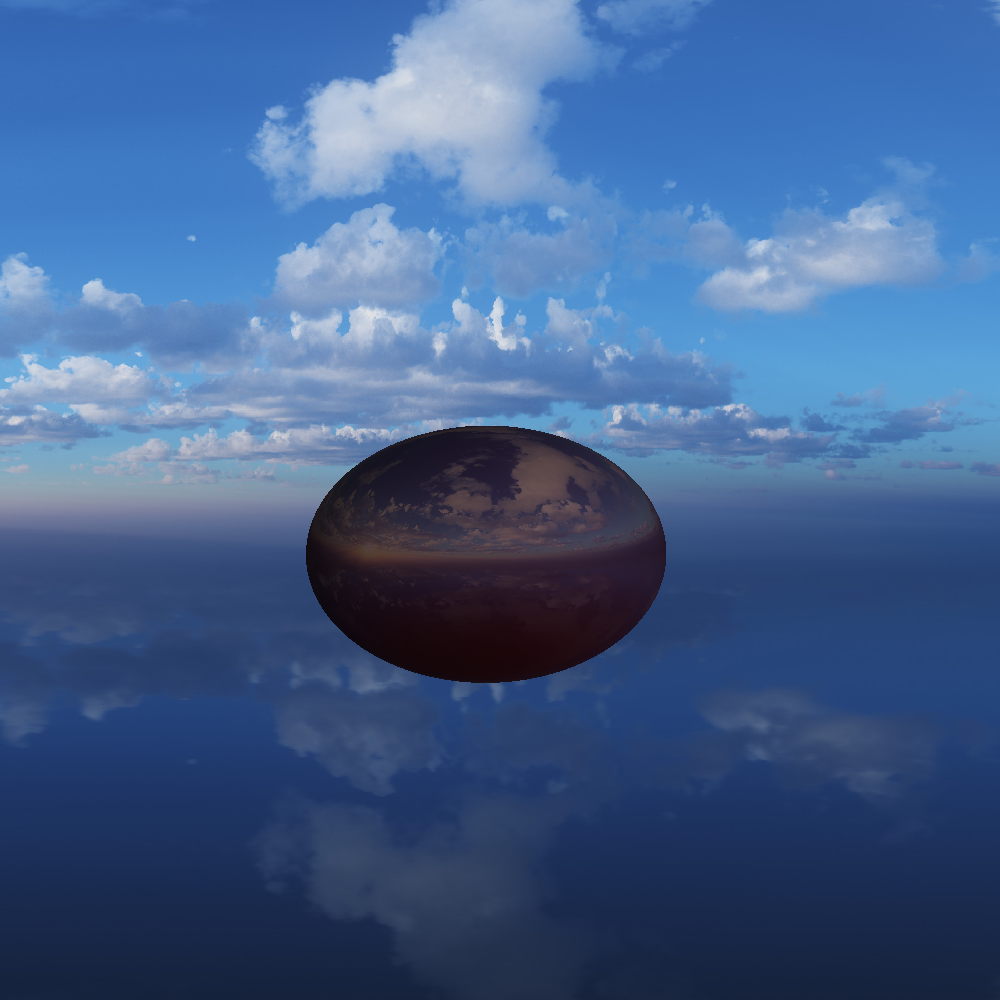
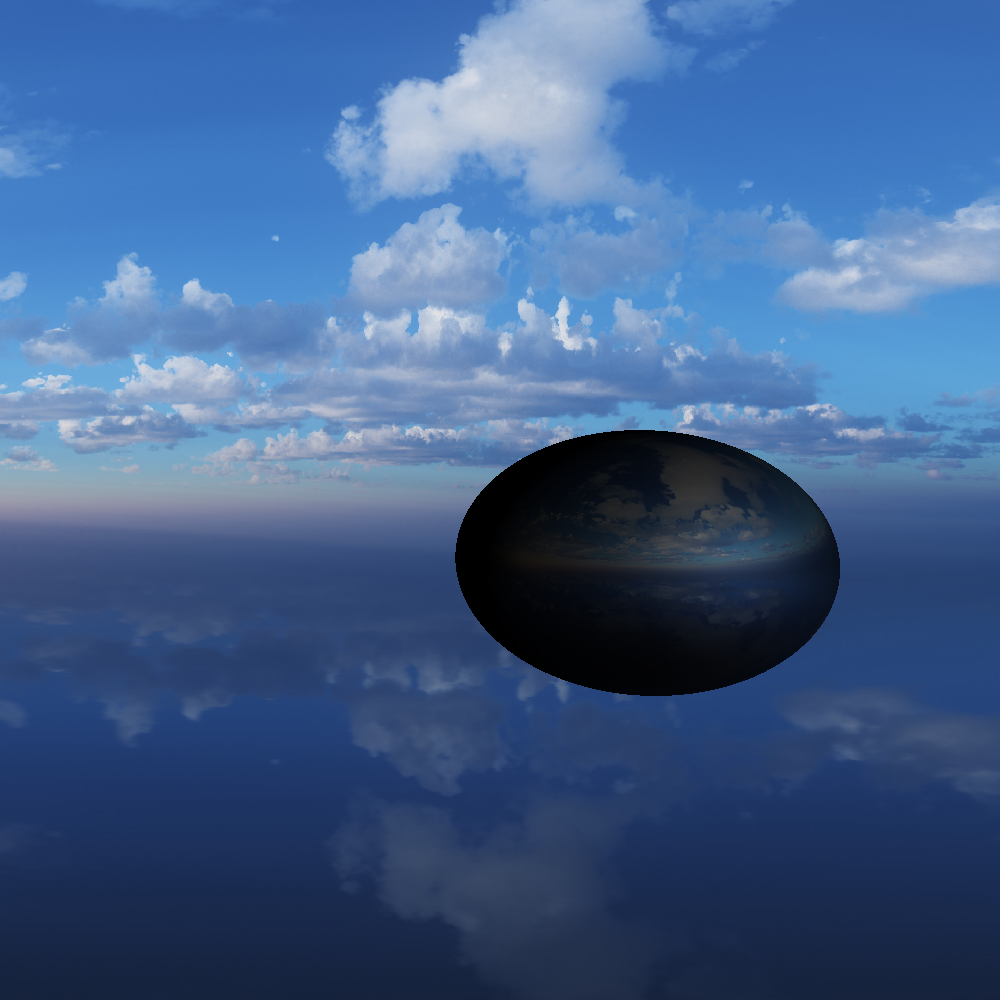
Result is cool but not working haha

diff --git a/dev/src/physic/shadow.c b/dev/src/physic/shadow.c
@@ -39,7 +39,7 @@ void shadow_render(raycast_param* rcp)
     
     //setup
     ray* shadow_ray = calloc(sizeof(struct ray),1);
-    float c[3] = {1,1,1};
+    float c[3] = {0,0,0};
     copy(ry->last_hit->normal, shadow_ray->pos);
     scale(shadow_ray->pos, .001, shadow_ray->pos);
     add(shadow_ray->pos, ry->last_hit->pos, shadow_ray->pos);
@@ -60,21 +60,20 @@ void shadow_render(raycast_param* rcp)
             times_illum(&mat->diffuse, lgt_amt);
             times_illum(&lgt->illum, lgt_amt);
             add(lgt_amt, c, c);
-
+            
             //specular
-            float ideal[3];
-            reflect(shadow_ray->dir, ry->last_hit->normal, ideal);
-            normalize(ideal, ideal);
-            dp = max(0,dotProduct(ideal, ry->dir));
+            float half_vect[3];
+            scale(ry->dir, -1, half_vect);
+            add(shadow_ray->dir, half_vect, half_vect);
+            normalize(half_vect, half_vect);
+            
+            dp = max(0,dotProduct(half_vect, ry->last_hit->normal));
             dp = pow(dp, mat->shininess);
             float lgt_spec[3] = {dp, dp, dp};
             times_illum(&mat->specular, lgt_spec);
             times_illum(&lgt->illum, lgt_spec);
             add(lgt_spec, c, c);
-        }else{
-            //shadow
-            scale(c, 0, c);
-            break;
+            
         }
     }
     float ambient[3];
@@ -83,6 +82,9 @@ void shadow_render(raycast_param* rcp)
     float factor[3] = {1,1,1};
     minus(factor, ambient, factor);
     scale_vector(c, factor, c);
+    for(int i = 0; i < 3; i++){
+        c[i] = min(1, c[i]);
+    }
     scale_vector(c, ry->last_hit->color, ry->last_hit->color);
 
     free(shadow_ray);

diff --git a/dev/src/main.c b/dev/src/main.c
@@ -25,7 +25,7 @@ int main(){
 
     printf("World initialized, loading objects\n");
 
-    sphere* s = sphere_init(0, 0, 0, 1, def_mat(1,0,0,0,0));
+    sphere* s = sphere_init(0, 0, 0, 1, def_mat(1,1,1,2, 1));
     add_sphere(wd, s);
     // CHALLENGE : load_object("assets/objs/bunny.obj", wd, 10, (float[]){0,0,0}, .1);
     //1166 875 -> 388, 218
@@ -33,7 +33,7 @@ int main(){
     //load_object("./assets/objs/katana.obj", wd, 4, (float[]){0,0,0}, "./assets/textures/katana.png", 0);
     //light* lt = init_light((float[]){0,3,0}, illum(1,1,1,1.2));
     //add_light(wd, lt);
-    light* lt2 = init_light((float[]){-4,0,0}, illum(1,1,1, 1000));
+    light* lt2 = init_light((float[]){-4,0,0}, illum(1,1,1, 10));
     add_light(wd, lt2);
 
     printf("World object count: %d \n", wd->size_meshes);

diff --git a/dev/src/architecture/material.c b/dev/src/architecture/material.c
@@ -20,7 +20,7 @@ illumination def_illum(){
     return illum(1,1,1,100);
 }
 material* def_mat(float r, float g, float b, float shininess, float reflection){
-    return mat_init(r, g, b, illum(1,1,1,1.5), illum(1,1,1,10), def_illum(), shininess, reflection);
+    return mat_init(r, g, b, illum(1,1,1,1.5), illum(1,1,1,2), def_illum(1,1,1,2), shininess, reflection);
 }
 material* default_mat(){
     return def_mat(1,1,1,0,0);
@@ -35,7 +35,7 @@ illumination illum(float r, float g, float b, float intensity){
     i.color[0] = r;
     i.color[1] = g;
     i.color[2] = b;
-    normalize(i.color, i.color);
+    //normalize(i.color, i.color);
     i.intensity = 1-(1/intensity);
     return i;
 }
